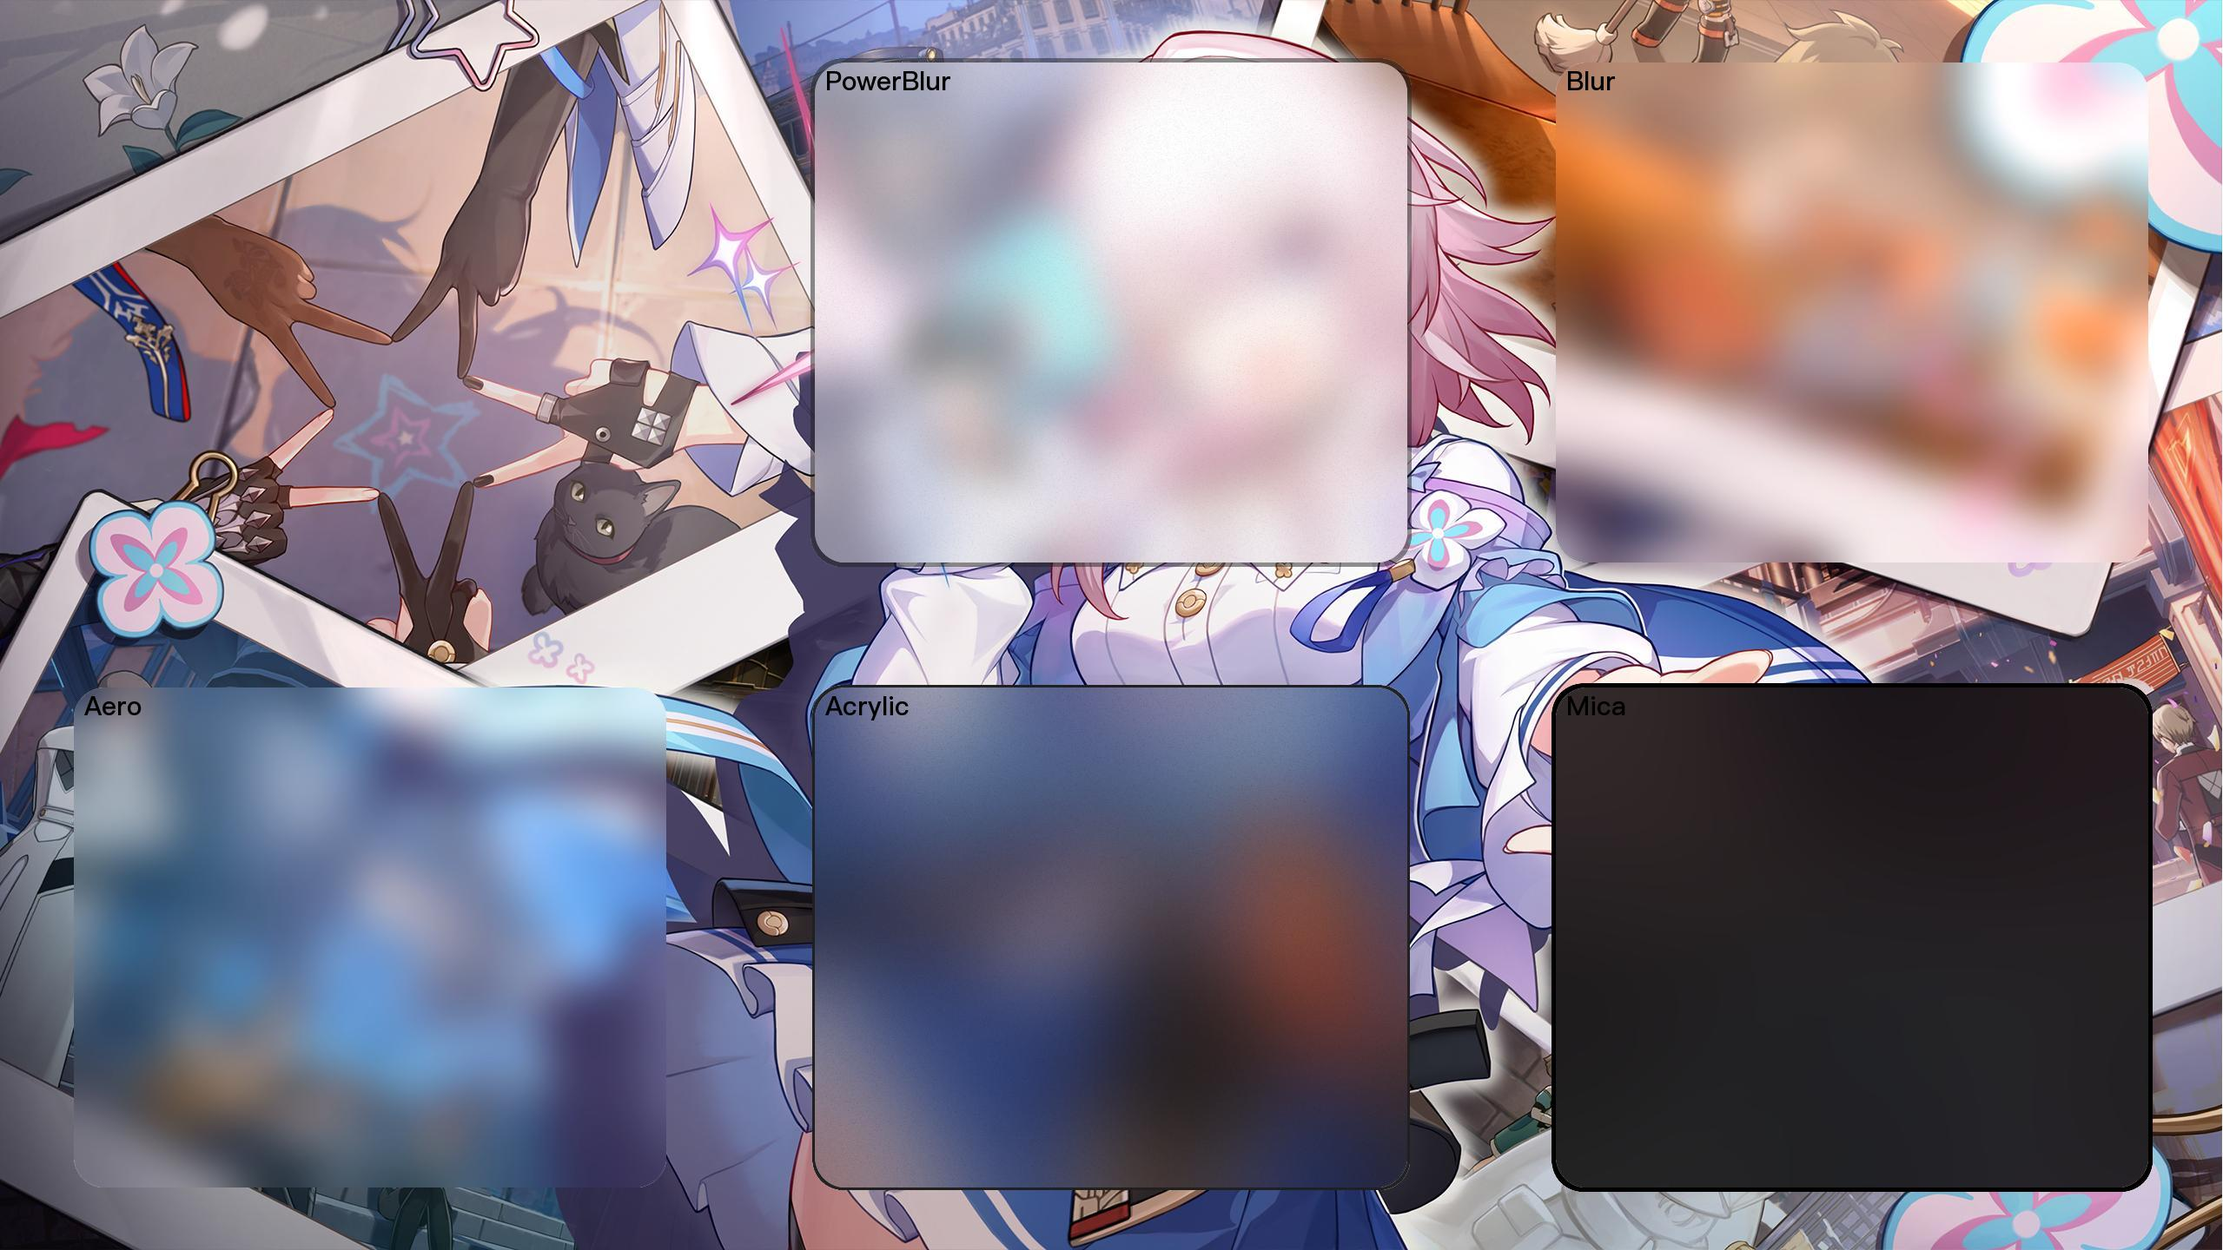
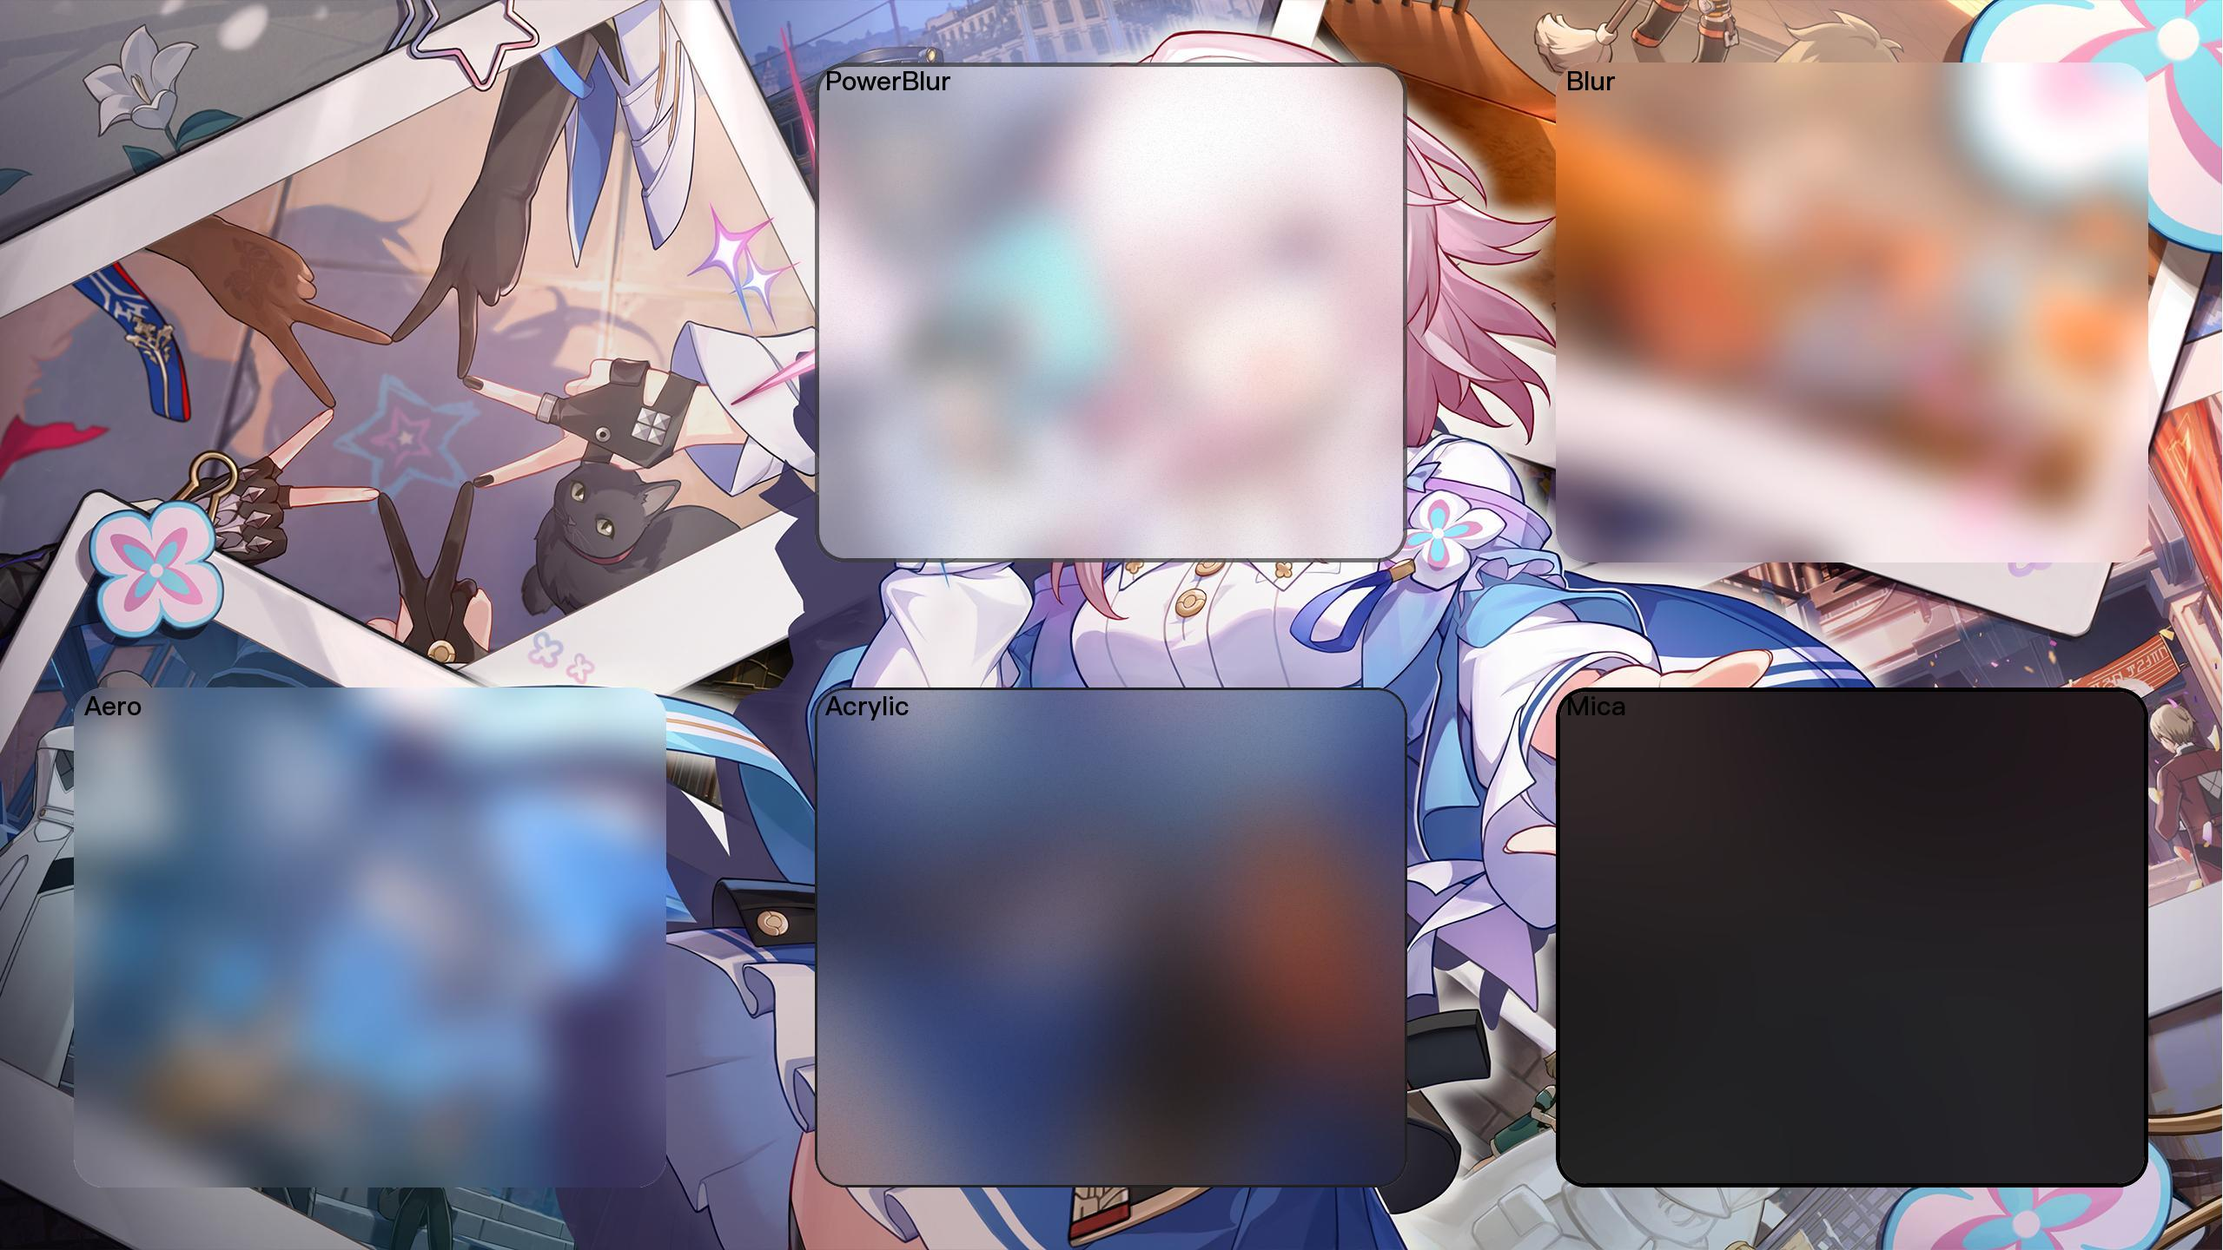
feat(PowerBlur): 优化毛玻璃矩形边框效果并添加新功能
- 重构了 round_rectangle函数，提高了抗锯齿效果- 添加了 color_alpha、outline_color、outline_alpha 和 outline_width 参数，支持自定义颜色和轮廓
- 优化了性能，移除了冗余的代码路径
- 改进了描边计算方法，提高了准确性

diff --git a/src/PowerBlur/power_blur.py b/src/PowerBlur/power_blur.py
@@ -1,3 +1,7 @@
+# Licensed under the Apache License: http://www.apache.org/licenses/LICENSE-2.0
+# For details: https://github.com/xiaosuyyds/PowerBlur/blob/master/NOTICE
+
+
 import numpy as np
 from PIL import Image, ImageDraw, ImageFilter, ImageEnhance
 
@@ -7,59 +11,100 @@ def rounded_rectangle(
         size: list[int, int, int, int] | tuple[int, int, int, int],
         radius: int = 100,
         color: list[int, int, int] | tuple[int, int, int] = (255, 255, 255),
+        color_alpha: int = 255,
         magnification: int = 4,
-        copy: bool = False
+        copy: bool = False,
+        outline_color: list[int, int, int] | tuple[int, int, int] | None = None,
+        outline_alpha: int = 255,
+        outline_width: int = 0
 ):
+    # 如果copy为True，则复制原始图像，避免修改原始图像
     if copy:
         image = image.copy()
 
-    # 创建一个圆形的单色图片
-    circle = Image.new('L', (radius * 2 * magnification, radius * 2 * magnification), 0)
+    # 创建一个临时的RGBA图像，用于绘制圆角，尺寸被放大以提高抗锯齿效果
+    circle = Image.new('RGBA', (radius * 2 * magnification, radius * 2 * magnification),
+                       (255, 255, 255, 0))
 
-    # 绘制一个圆
+    # 获取circle图像的绘图对象
     draw = ImageDraw.Draw(circle)
-    draw.ellipse((0, 0, radius * 2 * magnification, radius * 2 * magnification), fill=255)
+    # 在circle图像上绘制一个圆形，用于生成圆角
+    draw.ellipse(
+        (0, 0, radius * 2 * magnification, radius * 2 * magnification),
+        fill=(color[0], color[1], color[2], color_alpha),
+        outline=(outline_color[0], outline_color[1], outline_color[2], outline_alpha) if outline_color else None,
+        # 仅当 outline_color 不为 None 时才绘制轮廓
+        width=outline_width * magnification
+    )
 
-    # 缩放回正常大小
+    # 将临时圆形图像缩放回正常大小，以应用抗锯齿效果
     circle = circle.resize(
         (radius * 2, radius * 2),
         Image.Resampling.LANCZOS)
 
-    # 创建一个矩形蒙版
+    # 创建一个矩形蒙版，其尺寸与要绘制的矩形相同，颜色和透明度与圆角矩形相同
     mask = Image.new("RGBA", ((size[2] - size[0]), (size[3] - size[1])),
-                     (color[0], color[1], color[2], 255))
-    w, h = mask.size
+                     (color[0], color[1], color[2], color_alpha))
+    # 如果需要绘制轮廓且指定了轮廓颜色，则在矩形蒙版上绘制矩形轮廓
+    if outline_width > 0 and outline_color:  # 确保 outline_color 不为 None 才绘制轮廓
+        draw = ImageDraw.Draw(mask)
+        draw.rectangle(
+            (0, 0, mask.size[0] - 1, mask.size[1] - 1),
+            fill=None,
+            outline=(outline_color[0], outline_color[1], outline_color[2], outline_alpha),
+            width=outline_width
+        )
+    w, h = mask.size  # 获取蒙版的宽度和高度
 
-    # 创建一个蒙版的alpha层，并将四个角替换为圆形
-    mask_alpha = Image.new('L', mask.size, 255)
-    mask_alpha.paste(circle.crop((0, 0, radius, radius)), (0, 0))  # 左上角
-    mask_alpha.paste(circle.crop((radius, 0, radius * 2, radius)),
-                     (w - radius, 0))  # 右上角
-    mask_alpha.paste(circle.crop((radius, radius, radius * 2, radius * 2)),
-                     (w - radius, h - radius))  # 右下角
-    mask_alpha.paste(circle.crop((0, radius, radius, radius * 2)),
-                     (0, h - radius))  # 左下角
+    # 将圆形图像的不同部分（作为圆角）粘贴到矩形蒙版的四个角上
+    # 左上角
+    mask.paste(
+        circle.crop(
+            (
+                0,
+                0,
+                radius,
+                radius
+            )
+        ), (0, 0)
+    )
+    # 右上角
+    mask.paste(
+        circle.crop(
+            (
+                radius,
+                0,
+                radius * 2,
+                radius
+            )
+        ),
+        (w - radius, 0))
+    # 右下角
+    mask.paste(
+        circle.crop(
+            (
+                radius,
+                radius,
+                radius * 2,
+                radius * 2
+            )
+        ),
+        (w - radius, h - radius)
+    )
+    # 左下角
+    mask.paste(
+        circle.crop(
+            (
+                0,
+                radius,
+                radius,
+                radius * 2
+            )
+        ), (0, h - radius)
+    )
 
-    # 将圆角矩形蒙版粘贴到矩形蒙版上
-    mask.putalpha(mask_alpha)
-
+    # 将创建的圆角矩形蒙版粘贴到原始图像上，使用蒙版自身作为alpha蒙版
     image.paste(mask, (size[0], size[1]), mask)
-
-    # 以前效率很低的实现（速度相差约5倍）
-    # mask = Image.new("RGBA", ((size[2] - size[0]) * magnification,
-    #                           (size[3] - size[1]) * magnification), (255, 255, 255, 0))
-    #
-    # draw = ImageDraw.Draw(mask)
-    # draw.rounded_rectangle(
-    #     (0, 0, mask.size[0], mask.size[1]),
-    #     radius=radius * magnification,
-    #     fill=color
-    # )
-    # mask = mask.resize(
-    #     (mask.size[0] // magnification, mask.size[1] // magnification),
-    #
-    #     Image.Resampling.LANCZOS)
-    # image.paste(mask, (size[0], size[1]), mask)
     return image
 
 
@@ -165,27 +210,16 @@ def power_blur(
 
     # 计算描边
     if outline_alpha > 0 and outline_width > 0:
-        outline_image = Image.new(
-            "RGBA", (width_mask + outline_width * 2, height_mask + outline_width * 2),
-            (outline_fill[0], outline_fill[1], outline_fill[2], outline_alpha)
+        rounded_rectangle(
+            crop_image,
+            (0, 0, width_mask, height_mask),
+            color_alpha=0,
+            radius=radius,
+            outline_alpha=outline_alpha,
+            outline_width=outline_width,
+            outline_color=outline_fill
         )
-        outline_image.alpha_composite(crop_image, (outline_width, outline_width))
-        # 对描边进行圆角
-        outline_image_mask = Image.new(
-            "RGBA", (width_mask + outline_width * 2, height_mask + outline_width * 2),
-            (255, 255, 255, 0)
-        )
-        # 创建圆角遮罩（并计算 radius 的修正值，就是这里有点问题，因为浮点数和 int 的转换会有误差，不过也可能是我计算方法的问题，反正看着就有点难受，之后肯定是要换一种描边计算方法的）
-        rounded_rectangle(outline_image_mask, (0, 0, width_mask + outline_width * 2, height_mask + outline_width * 2),
-                          round(radius * ((width_mask + height_mask + outline_width * 4) / (width_mask + height_mask))))
-        new_outline = Image.new(
-            "RGBA", (width_mask + outline_width * 2, height_mask + outline_width * 2),
-            (255, 255, 255, 0)
-        )
-        new_outline.paste(outline_image, (0, 0), outline_image_mask)
-        base_image.paste(new_outline, (size[0] - outline_width, size[1] - outline_width), new_outline)
-    else:
-        base_image.paste(crop_image, (size[0], size[1]), crop_image)
+    base_image.paste(crop_image, (size[0], size[1]), crop_image)
 
     # 返回处理后的图像
     return base_image

diff --git a/example.py b/example.py
@@ -1,3 +1,4 @@
+# import src.PowerBlur as PowerBlur
 import PowerBlur
 from PIL import Image, ImageDraw, ImageFont
 import time
@@ -26,7 +27,7 @@ print(size5)
 start_time = time.time()
 
 # 绘制
-image = PowerBlur.power_blur(image, size1, sigma=25, radius=35, outline_fill=(32, 32, 32))
+image = PowerBlur.power_blur(image, size1, sigma=25, radius=35, outline_fill=(32, 32, 32), outline_alpha=192)
 image = PowerBlur.blur(image, size2, sigma=25, radius=35)
 image = PowerBlur.aero(image, size3, sigma=25, radius=35)
 image = PowerBlur.acrylic(image, size4, sigma=50, mask_fill=(0, 0, 0), radius=35,

diff --git a/src/PowerBlur/__init__.py b/src/PowerBlur/__init__.py
@@ -1,1 +1,4 @@
+# Licensed under the Apache License: http://www.apache.org/licenses/LICENSE-2.0
+# For details: https://github.com/xiaosuyyds/PowerBlur/blob/master/NOTICE
+
 from .power_blur import *

diff --git a/README.md b/README.md
@@ -36,18 +36,22 @@ image.save("output.jpg")
 
 ### Parameter Explanation
 
-| Parameter  | Required/Default Value          | Type       | Description                                                           |
-|------------|---------------------------------|------------|-----------------------------------------------------------------------|
-| image      | ✔                              | Image      | The image to be processed                                             |
-| size       | ✔                              | tuple/list | The area of the image to be processed, in the format (x1, y1, x2, y2) |
-| radius     | ❌ (default is 25)               | int        | Corner radius; 0 means no corner radius                               |
-| mask_fill  | ❌ (default is (255, 255, 255))  | tuple/list | Mask color (R, G, B)                                                  |
-| mask_alpha | ❌ (default is 100)              | int        | Mask opacity (0~255); 0 is fully opaque, 100 is fully transparent     |
-| noise_mean | ❌ (default is 0.03)             | float      | Gaussian noise mean (0~255)                                           |
-| noise_std  | ❌ (default is 10)               | float      | Gaussian noise standard deviation; 0 means no noise                   |
-| sigma      | ❌ (default is 5)                | float      | Gaussian blur parameter; 0 means no blur                              |
-| exposure   | ❌ (default is 1)                | float      | Exposure (0~10); 0 means no exposure                                  |
-| saturation | ❌ (default is 1)                | float      | Saturation; 0 means no saturation                                     |
+| Parameter     | Required/Default Value         | Type                           | Description                                                              |
+|---------------|--------------------------------|--------------------------------|--------------------------------------------------------------------------|
+| image         | ✔                             | Image                          | The image to be processed                                                |
+| size          | ✔                             | tuple/list[int, int, int, int] | The area of the image to be processed, in the format (x1, y1, x2, y2)    |
+| radius        | ❌ (default is 25)              | int                            | Corner radius; 0 means no corner radius                                  |
+| mask_fill     | ❌ (default is (255, 255, 255)) | tuple/list[int, int, int]      | Mask color (R, G, B)                                                     |
+| mask_alpha    | ❌ (default is 100)             | int                            | Mask opacity (0~255); 0 is fully opaque, 100 is fully transparent        |
+| outline_fill  | ❌ (default is (0, 0, 0))       | tuple/list[int, int, int]      | Outline color (R, G, B)                                                  |
+| outline_width | ❌ (default is 5)               | int                            | Outline width                                                            |
+| outline_alpha | ❌ (default is 128)             | int                            | Outline opacity (0~255); 0 is fully transparent, 128 is semi-transparent |
+| noise_mean    | ❌ (default is 0.03)            | float                          | Gaussian noise mean (0~255)                                              |
+| noise_std     | ❌ (default is 10)              | float                          | Gaussian noise standard deviation; 0 means no noise                      |
+| sigma         | ❌ (default is 5)               | float                          | Gaussian blur parameter; 0 means no blur                                 |
+| exposure      | ❌ (default is 1)               | float                          | Exposure (0~10); 0 means no exposure                                     |
+| saturation    | ❌ (default is 1)               | float                          | Saturation; 0 means no saturation                                        |
+| copy          | ❌ (default is False)           | bool                           | Whether to copy the original image without modifying it                  |
 
 ### Concerned about configuring all these parameters? We’ve prepared some presets for you.
 
@@ -66,3 +70,9 @@ image.save("output.jpg")
 
 ### Processed Image
 ![image](https://cdn.jsdelivr.net/gh/xiaosuyyds/PowerBlur@master/example_output.jpg)
+
+## License
+
+Copyright 2025 Xiaosu.
+
+Distributed under the terms of the [Apache 2.0 license](https://github.com/xiaosuyyds/PowerBlur/blob/master/LICENSE).

diff --git a/README_ZH.md b/README_ZH.md
@@ -36,18 +36,23 @@ image.save("output.jpg")
 
 ### 参数说明
 
-| 参数         | 是否必要/默认值          | 类型         | 说明                            |
-|------------|-------------------|------------|-------------------------------|
-| image      | ✔                | Image      | 需要处理的图像                       |
-| size       | ✔                | tuple/list | 需要处理的图像区域，格式为(x1, y1, x2, y2) |
-| radius     | ❌（默认值25）          | int        | 圆角尺寸，0即无圆角                    |
-| mask_fill  | ❌（默认值255,255,255） | tuple/list | 蒙版颜色(R,G,B)                   |
-| mask_alpha | ❌（默认值100）         | int        | 蒙版透明度（0~255），0即完全不透明，100即完全透明 |
-| noise_mean | ❌（默认值0.03）        | float      | 高斯噪声均值(0~255)                 |
-| noise_std  | ❌（默认值10）          | float      | 高斯噪声标准差，为0时无噪声                |
-| sigma      | ❌（默认值5）           | float      | 高斯模糊参数，0即无模糊                  |
-| exposure   | ❌（默认值1）           | float      | 曝光度（0~10），0即无                 |
-| saturation | ❌（默认值1）           | float      | 饱和度，0即无                       |
+| 参数            | 是否必要/默认值              | 类型                             | 说明                            |
+|---------------|-----------------------|--------------------------------|-------------------------------|
+| image         | ✔                    | Image                          | 需要处理的图像                       |
+| size          | ✔                    | tuple/list[int, int, int, int] | 需要处理的图像区域，格式为(x1, y1, x2, y2) |
+| radius        | ❌（默认值25）              | int                            | 圆角尺寸，0即无圆角                    |
+| mask_fill     | ❌（默认值(255, 255, 255)) | tuple/list[int, int, int]      | 蒙版颜色(R, G, B)                 |
+| mask_alpha    | ❌（默认值100）             | int                            | 蒙版透明度（0~255），0即完全不透明，100即完全透明 |
+| outline_fill  | ❌（默认值(0, 0, 0))       | tuple/list[int, int, int]      | 边框颜色(R, G, B)                 |
+| outline_width | ❌（默认值5）               | int                            | 边框宽度                          |
+| outline_alpha | ❌（默认值128）             | int                            | 边框透明度（0~255），0即完全透明，128即半透明   |
+| noise_mean    | ❌（默认值0.03）            | float                          | 高斯噪声均值(0~255)                 |
+| noise_std     | ❌（默认值10）              | float                          | 高斯噪声标准差，为0时无噪声                |
+| sigma         | ❌（默认值5）               | float                          | 高斯模糊参数，0即无模糊                  |
+| exposure      | ❌（默认值1）               | float                          | 曝光度（0~10），0即无曝光               |
+| saturation    | ❌（默认值1）               | float                          | 饱和度，0即无饱和度                    |
+| copy          | ❌（默认值False）           | bool                           | 是否复制一份原始图片（不修改原图）             |
+
 
 ### 担心这么多参数设置起来麻烦，我们为你准备了一些预设
 
@@ -68,3 +73,9 @@ image.save("output.jpg")
 ![image](https://cdn.jsdelivr.net/gh/xiaosuyyds/PowerBlur@master/example.jpg)
 ### 处理后图片
 ![image](https://cdn.jsdelivr.net/gh/xiaosuyyds/PowerBlur@master/example_output.jpg)
+
+## 许可证
+
+版权所有 2025 Xiaosu。
+
+根据 [Apache 2.0 许可证](https://github.com/xiaosuyyds/PowerBlur/blob/master/LICENSE) 的条款分发。
